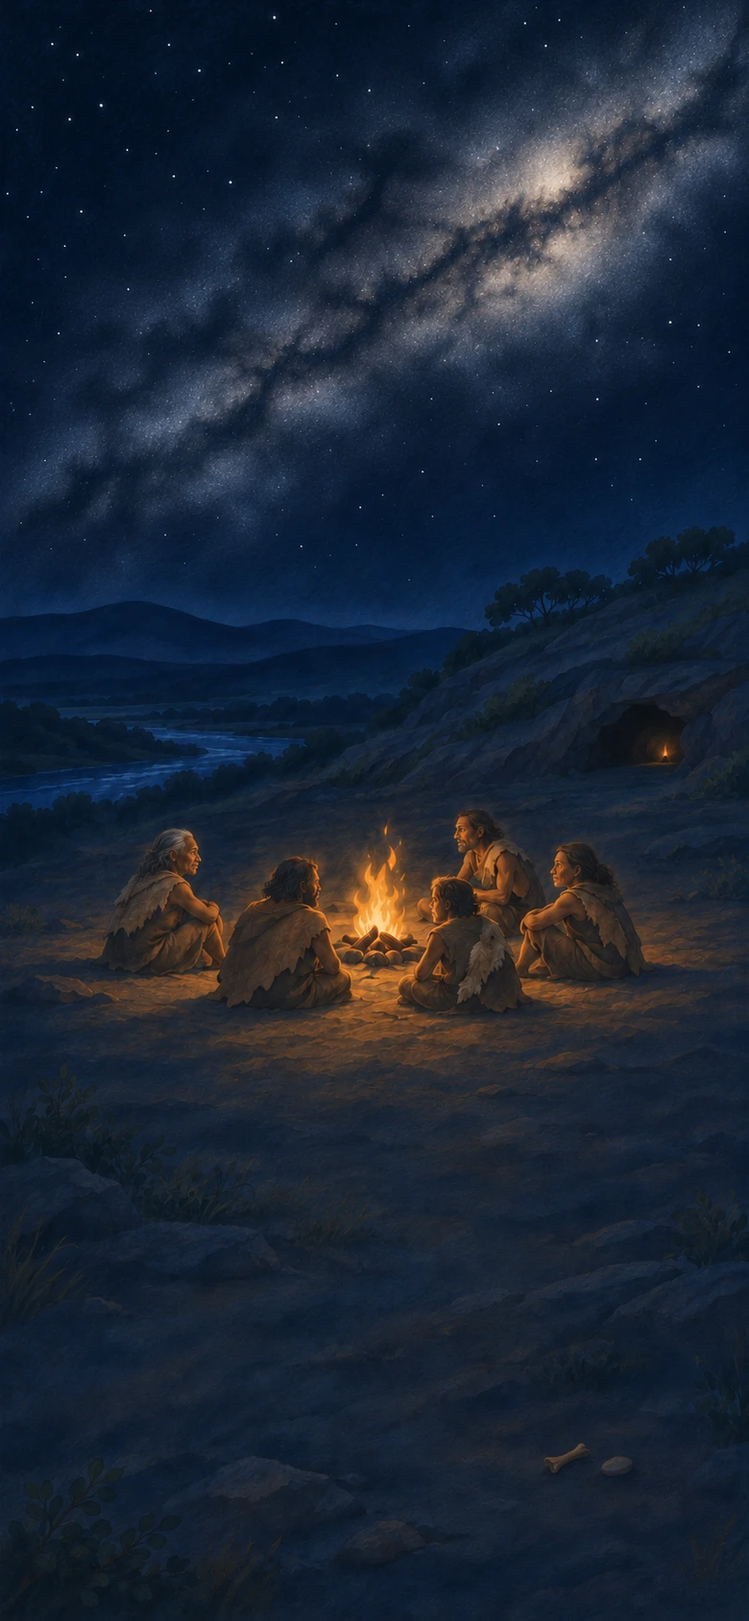
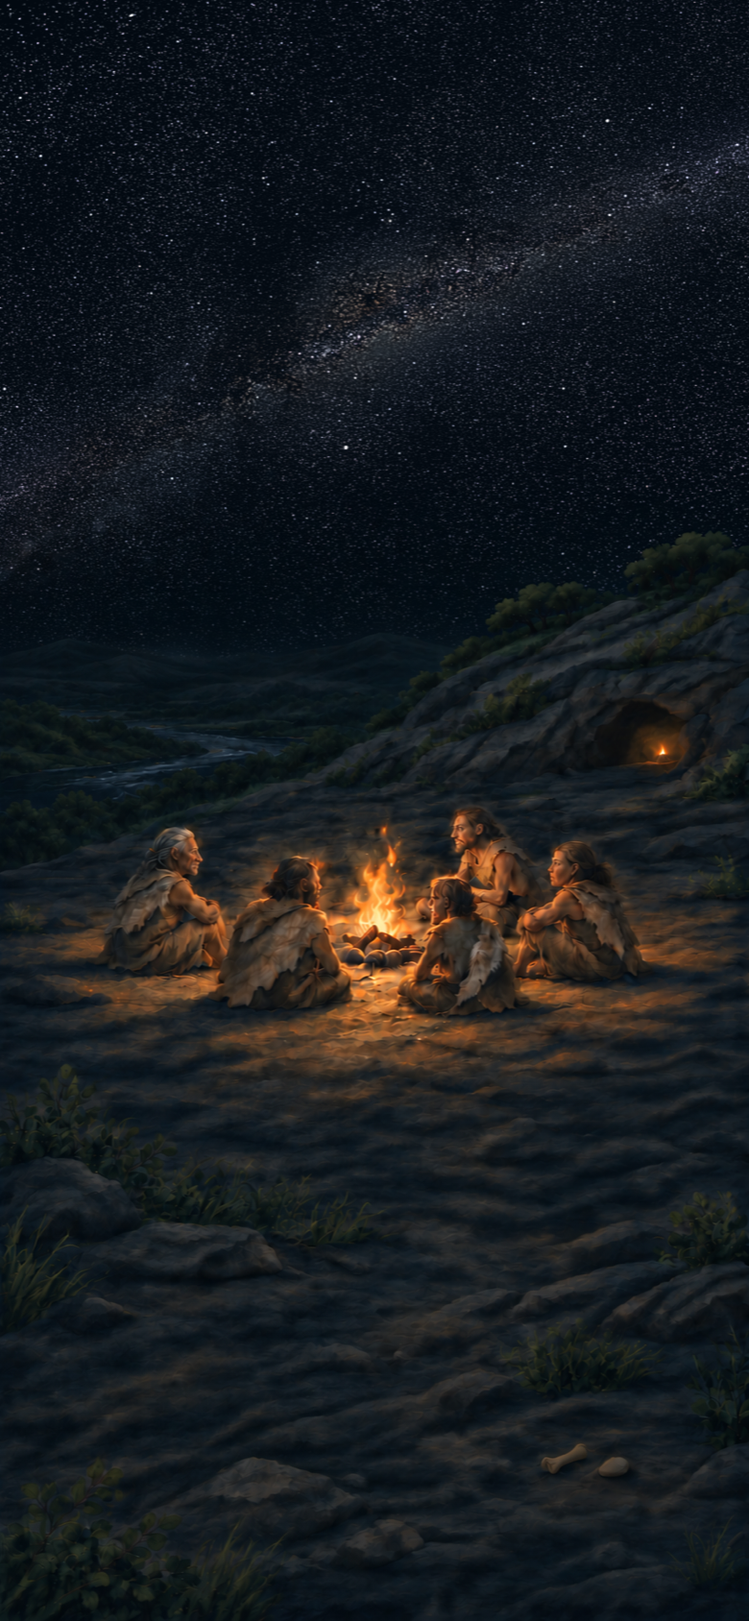
creation: better final image

diff --git a/stories/creation/design-brief.md b/stories/creation/design-brief.md
@@ -62,7 +62,7 @@ The final Song of creation painting should stay close to Pluscarden’s interwov
 
 The recurring coast has a hooked ochre headland, an arched wave-cut cave, teal water and a pale dry shelf and upper wall inside. Preserve those landscape landmarks through forest, loss and recovery. The paired-crater pale Moon remains recognizable within its icon alone. Great browsers are long-necked sauropod-like animals; their tracks pair broad oval hind prints with smaller D-shaped foreprints. Their lineage never returns alive after the impact. The cave's later art shows an extant animal and stars, not a hybrid beast or human memories of extinct giants.
 
-Chapter 24 takes place deep inside an enclosed cave chamber, with no outdoor view, visible entrance or daylight. Before Fire, the chamber is very dark with faintly discernible wall and floor shapes and difficult to make out. Firelight reveals the dry painting wall; its warm pool of light and surrounding darkness give the pictures their setting. Use the rock's contours as part of the drawing surface. The animal painting itself draws on Paleolithic parietal art: economical, confident mineral-pigment contours, broad partial ochre fields, tapering legs and expressive antlers, with bare stone showing through. Keep the surrounding Ravilious-style cave, but give the marks on its wall this distinct material language. Avoid smooth modern wildlife illustration, uniform outlines, modeled fur or decorative celestial glyphs. The later stars are irregular pigment dots, retaining the same animal and wall. Their celestial meaning belongs to this invented scene, not an asserted interpretation of archaeological signs. The earlier cave-making history remains. The earlier wave-made Sea cave is displayed as Dark cave here. Bring Fire into Dark cave to replace it with Cave, then replace that with Painted cave and finally Painted cave with stars. Every state can receive a Call to make Echo, so painting and song remain independent. Exactly one cave hotspot is present at a time; do not retain a separate acoustic cave alongside the changing painting. On the day of rest, follow the supplied quiet gathering study: five small, simply painted early Homo sapiens adults, including two women, around a campfire near the vertical centre of the full scene, farther from a less prominent cave in the background. Use varied ages, brown skin tones and individual weathered faces informed by museum reconstructions, without contemporary beauty-model styling or indiscriminately borrowing Neanderthal anatomy. A broad dark starry sky and faint Milky Way above them recall the opening dust clouds and make the people feel small within the world. Preserve deep blue night and localized welcoming firelight. With only two combinations, this scene does not need a large blank playing field; modest low-contrast space for the few tokens is sufficient. The cave mouth is dark and unevenly lit, with only a faint torch deeper inside. Match its rock character to the deep chamber, without moving its paintings to the entrance merely to make them visible. The cave holds their shared culture even when its interior pictures are out of sight. Social group is the actual gathering in this landscape, not a fixed circular token. Review the registered scene states at their actual playing size.
+Chapter 24 takes place deep inside an enclosed cave chamber, with no outdoor view, visible entrance or daylight. Before Fire, the chamber is very dark with faintly discernible wall and floor shapes and difficult to make out. Firelight reveals the dry painting wall; its warm pool of light and surrounding darkness give the pictures their setting. Use the rock's contours as part of the drawing surface. The animal painting itself draws on Paleolithic parietal art: economical, confident mineral-pigment contours, broad partial ochre fields, tapering legs and expressive antlers, with bare stone showing through. Keep the surrounding Ravilious-style cave, but give the marks on its wall this distinct material language. Avoid smooth modern wildlife illustration, uniform outlines, modeled fur or decorative celestial glyphs. The later stars are irregular pigment dots, retaining the same animal and wall. Their celestial meaning belongs to this invented scene, not an asserted interpretation of archaeological signs. The earlier cave-making history remains. The earlier wave-made Sea cave is displayed as Dark cave here. Bring Fire into Dark cave to replace it with Cave, then replace that with Painted cave and finally Painted cave with stars. Every state can receive a Call to make Echo, so painting and song remain independent. Exactly one cave hotspot is present at a time; do not retain a separate acoustic cave alongside the changing painting. On the day of rest, follow the supplied quiet gathering study: five small, simply painted early Homo sapiens adults, including two women, around a campfire near the vertical centre of the full scene, farther from a less prominent cave in the background. Use varied ages, brown skin tones and individual weathered faces informed by museum reconstructions, without contemporary beauty-model styling or indiscriminately borrowing Neanderthal anatomy. A broad dark starry sky and faint Milky Way above them recall the opening dust clouds and make the people feel small within the world. Keep abundant visible stars across the entire sky, including at playing size; a dark background must not erase the starfield. Use the same mixture of tiny stellar point sizes, colours and brightnesses throughout the sky, gradually crowding them into the Milky Way as in the La Silla and supplied dark dunes references; do not place a luminous ribbon or differently textured blob beneath a uniform star overlay. Keep the Milky Way a relatively narrow band within a much wider field of open sky, as in the user’s desert panorama; do not magnify a close-up until the band fills most of the sky. Use real photographed dust and its surrounding stars from one wider field, with La Silla as the density reference, rather than inventing lookalike clouds. Dust forms relatively few large, irregular, branching complexes within the dense field, not many small regular pockets or a neat continuous dividing line. Give it a slightly dirty, smoky quality through soft, uneven partial opacity; thinner areas veil faint stars and denser areas hide them, without introducing a separate bright cloud layer. Keep a near-black navy sky and restrained stellar light beside the campfire. The landscape may deliberately receive extra low-level light for readability while the sky stays dark; this is an illustration exposure choice, not a calibrated vision model. Exclude light pollution and bright horizon glow. Let faint, edgeless haze gradually attenuate lower stars, with a few dim points through clearer gaps. The haze forms a roughly level layer in front of distant mountains; its upper extent must not follow the ridges or climb behind the nearer slope. Keep it barely perceptible so distant mountains retain the landscape’s light, colour and material texture. Vary its opacity and the visibility of low stars in small irregular patches; avoid a formal horizontal gradient or an orderly star-to-land fade. Keep only limited low central clouds and mist in front of or between the mountains; avoid higher cloud banks resembling extra ridges. Blend the land, haze and sky without abrupt colour, brightness or cloud boundaries. Preserve deep blue night and localized welcoming firelight. With only two combinations, this scene does not need a large blank playing field; modest low-contrast space for the few tokens is sufficient. The cave mouth is dark and unevenly lit, with only a faint torch deeper inside. Match its rock character to the deep chamber, without moving its paintings to the entrance merely to make them visible. The cave holds their shared culture even when its interior pictures are out of sight. Social group is the actual gathering in this landscape, not a fixed circular token. Review the registered scene states at their actual playing size.
 
 In ordinary playable landscapes, concentrate dramatic landmarks in the upper part of portrait backgrounds and leave a calm working field naturally connected to the setting below. The opening nebula and final Song of creation deliberately use the whole page. Calm space, where needed, must be part of the artwork, not a CSS tint. Use 780×1688 runtime backgrounds, preserving painted proportions when extracting atlases. Images can compress scale poetically; anatomy, lineage, dry painting surfaces and the story's before/after states remain coherent.
 

diff --git a/notes.md b/notes.md
@@ -1473,6 +1473,16 @@ Created the requested [design-examples.png](stories/creation/design-examples.png
 
[1 lines of base64/hex data omitted]
 
+## 6 November 2026 — Creation natural night sky
+
+Replaced the rest-day sky after the user identified a pasted-on Milky Way. A separate sky study based closely on ESO’s La Silla photograph established continuous fine stars merging into broad stellar light; the built-in image tool then integrated that field above the existing gathering. The user preferred this blending and requested lower brightness for a viewer beside the fire. This provisional edit was subsequently rejected for recurring stellar-texture and boundary problems. The user expanded the task to a 24-photo survey and three independent readers, then required that all accumulated corrections be included in their acceptance prompts. The [live brief](stories/creation/design-brief.md) records the current intent; the [active production record](<archive/2026.11.06 creation sky/README.md>) and [review packet](<archive/2026.11.06 creation sky/review-brief.md>) track the ongoing revision. The earlier broad review passes did not establish that the user’s specific criteria were met. Earlier archived production remains unchanged.
+
+Verification of the earlier provisional export: the 780 × 1688 WebP decoded and visually retained the scene and Social group alignment in Chromium at 390 × 844 and 1440 × 1000, with no page errors. The export script reproduced the selected bytes. Creation lint reported zero errors and seven existing warnings, including the 20,000-state analysis limit. Generated foreground pixels are not identical, although the composition is preserved. This is an artistic view beside a fire, not a calibrated vision model. Verification captures were discarded. No gameplay, application bundle or hosting changes were made.
+
+Final local revision from the expanded pass: a single granular star population with variable crowding, irregular dust and much fainter locally uneven haze. The user refined the haze to a roughly level layer in front of distant terrain, without a pale separate landscape or formal fade. The [complete user review packet](<archive/2026.11.06 creation sky/review-brief.md>) retains these corrections; [the final production summary](<archive/2026.11.06 creation sky/README.md#verification>) records the review outcome. Diagnostic examples and separate iteration reports were subsequently removed at the user’s request. User acceptance of the final candidate is still pending.
+
[1 lines of base64/hex data omitted]
+
 ## 6 November 2026 — The Travelling Harbour illustrated study
 
 Developed the selected cyberspace direction into [The Travelling Harbour](projects/cyberpunk-study/README.md): 186 authored combinations, 215 illustrated identities and 27 playable chapters plus an ending. The ship, bottled harbour, garden, puppets and historical copies keep developing through enclosure reversal, borrowed movement, independent copying and composition. Repeated fresh fast playthroughs, a complete detailed playthrough, targeted detailed testing and independent narrative/continuity reviews led to shorter preparation, explicit copying receivers and meaningful creature, seat and room choices. The [active brief](projects/cyberpunk-study/design-brief.md) owns the resulting intent; [development outcomes](projects/cyberpunk-study/development.md) record the iterations, tested versions and evidence limits.
@@ -1490,3 +1500,13 @@ Sixteen completed fast/detailed campaigns retain 378 structured chapter-player a
 Selected artwork comprises 145 circular appearances, 21 open receiving drawings and 13 backgrounds. Three visual directions and targeted repairs led to luminous pastel material circles, charcoal fixed surroundings and quiet scene fields. All 179 PNGs decode and match their manifests; all 23 chapter entries passed phone/desktop inspection, with representative short-phone layouts and actual pointer transformations/reloads. Full lint has zero errors, three intentional mixed-fate warnings and the existing 20,000-state analysis bound; the canonical completion passes and earlier varied routes cover every recipe. No exhaustive safety claim follows from those bounded checks.
 
 Retained the single active brief, authored alternatives, selected production sources, exact requests, compact contact sheets and concise outcomes. Discarded temporary verification packets, raw reports, captures and intermediate exports after recording conclusions. No application code, catalogue, hosting or access settings changed; unrelated Creation work remains outside this change. The active study is not archived or promoted to a released story.
+
+
+## 6 November 2026 — Creation sky accepted
+
+The user accepted the final narrow-band, abundant-star revision: “That latest image looks really good to me.” The [completed production record](<archive/2026.11.06 creation sky/README.md>) supersedes the earlier provisional sky above. It uses actual stars and irregular dust from [ESO/S. Brunier’s Milky Way panorama](https://www.eso.org/public/images/eso0932a/), uniformly reframed and adjusted for dark background and visible star points at playing size. The user-approved generated landscape and faint valley atmosphere are preserved. The live brief records the adopted appearance; the complete reviewer packet retains the accumulated corrections. The eleven diagnostic examples were subsequently removed at the user’s request. The manuscript includes the required visible linked source credit and identifies the generated landscape.
+
[1 lines of base64/hex data omitted]
+
+
+The user subsequently requested keeping only the review criteria and final work/prompts. Removed all intermediate attempts and diagnostic images, earlier-generation input copies and prompts, photographic input copies, survey artifacts, the composition helper and separate iteration reports from the completed sky archive. Retained the approved master, exact last landscape-generation request, final photographic source URL/hash and composition parameters, review criteria, export script and concise final verification. The archive fell from about 47 MB to 2.4 MB. Approved master and runtime hashes are unchanged. Full composition replay now depends on intentionally discarded inputs; export from the retained master remains self-contained.

diff --git a/archive/2026.11.06 creation sky/review-brief.md b/archive/2026.11.06 creation sky/review-brief.md
@@ -1,0 +1,27 @@
+# Creation night sky: final review criteria
+
+These criteria accumulate the user’s corrections and govern review of the final scene. The [approved master](masters/c26-rest.png) is the retained visual reference. Earlier attempts and diagnostic images were removed at the user’s request. The [live story brief](../../stories/creation/design-brief.md) owns adopted visual intent.
+
+## Required judgments
+
+1. **Abundant stars, one population, narrower Milky Way.** Answer the user’s exact question: “DOES the milky way look like it's formed by the exact same kinds of stars as elsewhere, but gradually getting closer together?” Keep the same mixture of point shapes, sizes, colours and brightnesses inside and outside the band. The band emerges primarily through more of those stars per area, with gradual intermediate densities. It must not switch to smaller, greyer or differently coloured points, or become a smooth graphic, brushed ribbon or blob behind a uniform overlay. Compare equally sized clear-field crops, excluding obscuring dust. The Milky Way occupies a relatively narrow part of a much wider sky; do not magnify a close-up to fill most of the sky. The user’s scale correction was approximately half to one third of the earlier oversized band; the final master establishes the approved proportion. Require abundant individually visible stars throughout the sky at approximately 390-pixel playing width, not only at native resolution. A dark background must not erase the starfield or reduce it to faint grain.
+2. **Real, irregular, smoky dust.** Use actual photographed dust structures together with their surrounding stars. Do not invent lookalike clouds. Dust forms relatively few larger, broken, branching complexes with uneven scales and soft, dirty, smoke-like partial opacity. Avoid many small regular holes, sharp black cut-outs, a neat continuous dividing line or two orderly luminous rails. Thin dust veils some stars; denser areas hide them. The slight cigarette-smoke character belongs to obscuring dust, not a bright milky glow. Dust and unresolved smears occur within an already dense field and do not substitute for stellar concentration.
+3. **Deep night.** Keep the approved near-black navy background, restrained stellar light and subdued unresolved light. Reject long-exposure brightness, a luminous core, cyan/lavender glow or a bright sky wash. The visible fire motivates the darker sky as artistic intent; this is not a calibrated eye or camera simulation. Preserve distinct stars while keeping the space between them dark.
+4. **Readable land and local firelight.** The user permits the landscape a little extra light for readability. Keep its forms discernible and the fire the principal warm focus. Land and sky must share a coherent night palette and contrast, with no harsh colour/value boundary. Do not brighten the sky to match the readable land.
+5. **No light pollution.** No city glow, orange/yellow horizon dome, artificial green/cyan wash or sunrise-like stripe. Bright horizons in reference photographs are not the intended treatment. Natural airglow does not justify an unwanted luminous horizon.
+6. **Faint, irregular atmospheric transition.** Lower stars become dimmer and less clear, with a few points visible through irregular clearer gaps. Haze dissolves upward without a hard top edge. Its average height is roughly level across the valley and it lies in front of distant mountains; it must not follow ridges, climb behind the nearer slope or form a luminous mountain backing. Keep it barely perceptible so distant terrain retains the same light, colour and material texture as the landscape. Vary local transparency without a formal horizontal fade, regular waves, orderly spacing or parallel streaks. No separate pale-blue distant world and no abrupt land/sky or cloud/clear-sky boundary.
+7. **Mostly haze, limited low cloud.** Retain only faint mist in front of or between mountains and very low distant clouds in the central valley. Most of the lower sky uses edgeless haze. Avoid high cloud banks, repeated ridges and clouds shaped like extra mountains.
+8. **Preserve the scene.** Five small early Homo sapiens adults, two women and three men, around the central fire; cave with a tiny flame to the right, river to the left, existing terrain, trees, rocks, plants and foreground. Preserve the portrait frame, quiet gathering and registered Social group location. No moon, buildings, extra people, UI or text in the artwork.
+
+## Reference roles
+
+- [ESO / Alexandre Santerne, La Silla](https://www.eso.org/public/images/santerne-3_6-milkyway/) informed the continuous stellar population and embedded dust. Its exposure and a magnified crop are not the target.
+- [ESO/S. Brunier, The Milky Way panorama](https://www.eso.org/public/images/eso0932a/) supplies the final photographic stars and dust from one wider field. Its all-sky projection is adapted for this illustration, not used as a calibrated terrestrial camera view.
+- The user’s dark dunes-and-mountains attachment established darkness and stellar relationships; the earlier brighter dunes photograph illustrated readable terrain, and the cloud-and-dunes image illustrated atmospheric obscuration. Their later desert panorama established a narrower band and more surrounding sky. Their dust close-ups illustrated irregular, dirty clouds. These conversation attachments had no supplied local originals or URLs.
+- The 24-photo internet survey informed landscape/sky relationships. Exposure, processing and panoramas limit literal physical comparisons. Survey downloads and inspection sheets were disposable research inputs.
+
+## Independent review procedure
+
+Use three concurrent readers. Give each this complete brief, the candidate and available photographic references; omit production prompts, other reviewers’ findings and the assistant’s preference. Inspect the full-resolution image, approximately 390-pixel playing width, enlarged sky detail, equal-size clear-field crops and the horizon transition. Report pass, fail or uncertain for each of the eight criteria, with visible evidence. Explicitly answer the same-star-density question and check playing-size abundance and band width. An attractive scene or photographic provenance alone does not establish a pass. A failure blocks selection; uncertainty requires a focused check. Do not change approved features to solve a different problem.
+
+All three final readers passed all eight criteria, and the user accepted the final appearance on 6 November 2026. Earlier broad passes were sometimes superseded by the user’s more specific criticism; reviewer agreement cannot override the user’s judgment. Detailed reviewer answers and intermediate images are not retained.

diff --git a/archive/2026.11.06 creation sky/README.md b/archive/2026.11.06 creation sky/README.md
@@ -1,0 +1,25 @@
+# Creation: approved night sky
+
+The user accepted [c26-rest.webp](../../stories/creation/assets/backgrounds/c26-rest.webp) on 6 November 2026. The [final master](masters/c26-rest.png) preserves the approved narrow Milky Way, abundant visible stars, real smoky dust, dark background and faint landscape atmosphere. The [live story brief](../../stories/creation/design-brief.md) owns adopted intent.
+
+At the user’s request, this archive keeps the [review criteria](review-brief.md), final artwork, [last landscape-generation prompt](requests/faint-irregular-haze.json), [final photographic composition settings](photographic-layout.json), export script and compact [manifest](selection.json). Intermediate attempts, diagnostic images, source-input copies, earlier prompts and detailed iteration records have been removed.
+
+## Production
+
+The built-in image tool produced the painted landscape and atmosphere. The retained request is its exact last accepted landscape edit; its referenced intermediate images are intentionally no longer retained. The photographic sky was subsequently composed from [The Milky Way panorama](https://www.eso.org/public/images/eso0932a/), **ESO/S. Brunier**, under [CC BY 4.0](https://creativecommons.org/licenses/by/4.0/). The source URL and hash remain in the composition settings.
+
+Uniform reduction, rotation and cropping established the narrower band. Global darkening, point contrast and a small uniform highlight spread kept existing photographed stars visible at playing size. Lower stars were attenuated into the approved low-frequency sky colour, while the painted terrain was protected. No separate star overlay or invented dust mask was used. The [asset credit](../../stories/creation/assets/backgrounds/c26-rest.credits.md) and visible chapter credit identify the source and modifications. This is an illustrative adaptation of a photographic mosaic, not a calibrated sky or vision reconstruction.
+
+The flattened master is the authoritative final artwork. The retained prompt and settings document how it was made; recreating the full composition would require the deliberately discarded intermediate inputs. Export from the master remains reproducible:
+
+```sh
+bash "archive/2026.11.06 creation sky/export.sh"
+```
+
+The script uses macOS sips to scale the 854 × 1840 master uniformly to height 1688, center-crops the rounded 783-pixel width to 780, then uses cwebp 1.6.0 lossless encoding at method 6.
+
+## Verification
+
+All three final independent readers passed the eight criteria, including abundant distinct stars at 390-pixel width and the same stellar population crowded into the narrower band. The user then accepted this exact version. Earlier trials exposed repeated problems with different-looking band stars, invented dust, excessive haze, oversized scale and loss of point visibility; the complete criteria preserve those lessons without retaining the attempts.
+
+Creation lint returned zero errors and seven existing warnings, including the 20,000-state fixed-item analysis limit. Chromium at 390 × 844 and 1440 × 1000 confirmed image decoding, visible photographic credit and Social group alignment without page errors. Protected terrain pixels were unchanged; decoded WebP pixels matched the resized PNG exactly. Composition and export reproduced their bytes before intermediate-input cleanup. The approved master and runtime hashes are recorded in the manifest and remain unchanged after cleanup. No application rebuild or publication was performed.

diff --git a/archive/README.md b/archive/README.md
@@ -54,3 +54,7 @@ The [evidence index](<2026.10.30 authenticity improvements/authenticity-evidence
 ### Creation revision
 
 [`2026.11.05 creation revision/`](<2026.11.05 creation revision/README.md>) preserves the subsequent revision accepted after human play and artwork feedback. The promoted [Creation](../stories/creation/creation.md) has 187 combinations, 26 chapters, 182 circular artworks and 22 backgrounds. The archive retains the supplied inspiration, selected art masters and prompts, deterministic export geometry, research, concise reviews, and requested fast/detailed reports and player responses. Its [promotion record](<2026.11.05 creation revision/promotion.md>) records exact-copy verification, size and release checks. The [live design brief](../stories/creation/design-brief.md) remains authoritative; former source paths and evidence hashes inside the archive remain historical. Unresolved work stays in the [backlog](../projects/backlog.md).
+
+### Creation night sky
+
+[`2026.11.06 creation sky/`](<2026.11.06 creation sky/README.md>) preserves the user-approved final rest-day artwork, accumulated review criteria, final landscape-generation prompt, photographic composition settings and export script. Intermediate attempts, diagnostic images, source-input copies and iteration records were removed at the user’s request. The final pass corrects band magnification and restores abundant visible stars at playing size while preserving the approved dark background, haze and landscape. All three final readers passed and the user accepted the result on 6 November 2026. The runtime image and visible photographic credit remain with [Creation](../stories/creation/creation.md); the [live brief](../stories/creation/design-brief.md) owns current visual intent. Temporary review and browser artifacts were discarded.
